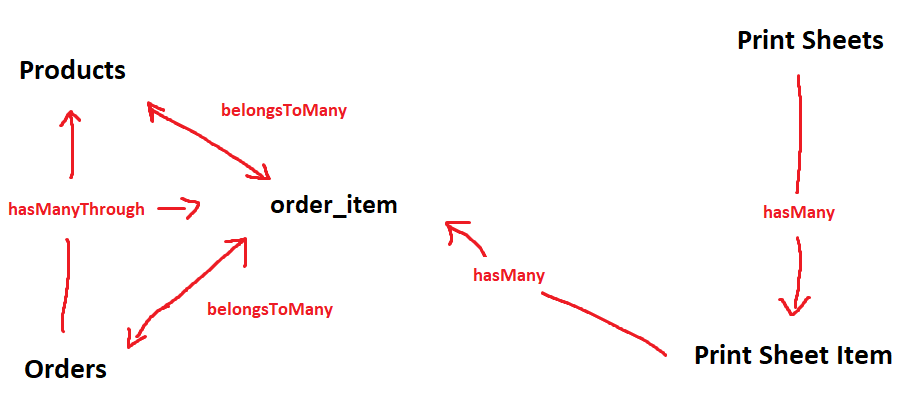
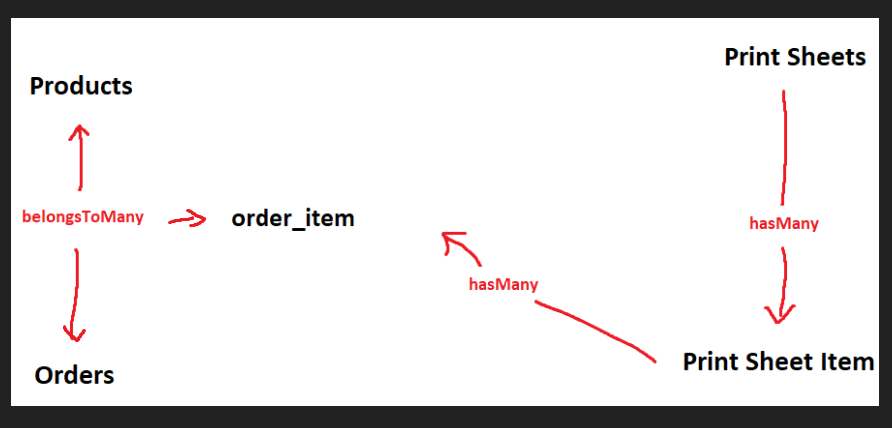
fix relationships, a bit more progress on logic

diff --git a/app/Models/Order.php b/app/Models/Order.php
@@ -10,21 +10,16 @@ class Order extends Model
     use HasFactory;
 
     protected $fillable = [
-        'order_numer', 'customer_id', 'total_price', 'fulfillment_status', 'fulfilled_date', 'order_status', 'customer_order_count'
+        'order_number', 'customer_id', 'total_price', 'fulfillment_status', 'fulfilled_date', 'order_status', 'customer_order_count'
     ];
-
-    public function items()
-    {
-        return $this->belongsToMany(OrderItem::class);
-    }
 
     public function products()
     {
-        return $this->hasManyThrough(Product::class, OrderItem::class);
+        return $this->belongsToMany(Product::class);
     }
 
     public static function generatePrintSheet($orders) {
-        $ordered = self::orderBySize();
+        $ordered = self::orderBySize($orders);
         $doesItFit = null;
 
         foreach ($ordered as $key => $each) {
@@ -41,8 +36,10 @@ class Order extends Model
         return false;
     }
 
-    public static function orderbySize() {
+    public static function orderbySize($orders) {
         $ordered = [];
+
+
 
         return $ordered;
     }

diff --git a/database/migrations/2021_02_04_234426_create_order_product_table.php b/database/migrations/2021_02_04_234426_create_order_product_table.php
@@ -4,7 +4,7 @@ use Illuminate\Database\Migrations\Migration;
 use Illuminate\Database\Schema\Blueprint;
 use Illuminate\Support\Facades\Schema;
 
-class CreateOrderItemTable extends Migration
+class CreateOrderProductTable extends Migration
 {
     /**
      * Run the migrations.
@@ -13,7 +13,7 @@ class CreateOrderItemTable extends Migration
      */
     public function up()
     {
-        Schema::create('order_item', function (Blueprint $table) {
+        Schema::create('order_product', function (Blueprint $table) {
             $table->id();
             $table->integer('quantity')->default(1);
             $table->bigInteger('refund')->nullable()->default(0);
@@ -21,7 +21,7 @@ class CreateOrderItemTable extends Migration
             $table->timestamps();
         });
 
-        Schema::table('order_item', function (Blueprint $table) {
+        Schema::table('order_product', function (Blueprint $table) {
             $table->foreignId('order_id')->constrained();
             $table->foreignId('product_id')->constrained();
         });

diff --git a/app/Models/OrderItem.php b/app/Models/OrderItem.php
@@ -9,19 +9,14 @@ class OrderItem extends Model
 {
     use HasFactory;
 
-    protected $table = 'order_item';
+    protected $table = 'order_product';
 
     protected $fillable = [
         'quantity', 'refund', 'resend_amount', 'order_id', 'product_id'
     ];
 
-    public function orders()
+    public function sheet_item()
     {
-        return $this->belongsToMany(Order::class);
-    }
-
-    public function products()
-    {
-        return $this->belongsToMany(Product::class);
+        return $this->belongsTo(PrintSheetItem::class);
     }
 }

diff --git a/database/migrations/2021_02_04_234528_create_print_sheet_item_table.php b/database/migrations/2021_02_04_234528_create_print_sheet_item_table.php
@@ -32,7 +32,7 @@ class CreatePrintSheetItemTable extends Migration
             // $table->foreign('ps_id')->references('id')->on('print_sheet');
             // $table->foreign('order_item_id')->references('id')->on('order_item');
             $table->foreignId('ps_id')->constrained('print_sheets');
-            $table->foreignId('order_item_id')->constrained('order_item');
+            $table->foreignId('order_product_id')->constrained('order_product');
         });
     }
 

diff --git a/app/Http/Controllers/OrderController.php b/app/Http/Controllers/OrderController.php
@@ -14,7 +14,9 @@ class OrderController extends Controller
      */
     public function index()
     {
-        $orders = Order::all();
+        $orders = Order::with('products')->get();
+        $orders2 = Order::all();
+        dd($orders, $orders2);
         $process = Order::generatePrintSheet($orders);
 
         if ($process) return 'Print sheet generated successfully';

diff --git a/app/Models/Product.php b/app/Models/Product.php
@@ -13,8 +13,8 @@ class Product extends Model
         'title', 'vendor', 'type', 'size', 'price', 'handle', 'inventory_quantity', 'sku', 'design_url', 'published_state'
     ];
 
-    public function items()
+    public function orders()
     {
-        return $this->belongsToMany(OrderItem::class);
+        return $this->belongsToMany(Order::class);
     }
 }

diff --git a/database/seeders/OrderItemSeeder.php b/database/seeders/OrderItemSeeder.php
@@ -23,7 +23,7 @@ class OrderItemSeeder extends Seeder
             $orderItems[] = [
                 'order_id' => $order_ids[rand(1, count($order_ids) - 1)],
                 'product_id' => $product_ids[rand(1, count($product_ids) - 1)],
-                'quantity' => rand(1,99)
+                'quantity' => rand(1,10)
             ];
         }
 

diff --git a/routes/web.php b/routes/web.php
@@ -1,6 +1,7 @@
 <?php
 
 use Illuminate\Support\Facades\Route;
+use App\Http\Controllers\OrderController;
 
 /*
 |--------------------------------------------------------------------------
@@ -13,4 +14,4 @@ use Illuminate\Support\Facades\Route;
 |
 */
 
-Route::get('/', 'OrderController@index');
+Route::get('/', [OrderController::class, 'index']);

diff --git a/app/Models/PrintSheetItem.php b/app/Models/PrintSheetItem.php
@@ -20,6 +20,6 @@ class PrintSheetItem extends Model
 
     public function items()
     {
-        return $this->hasMany(Orderitem::class);
+        return $this->hasMany(OrderItem::class);
     }
 }
